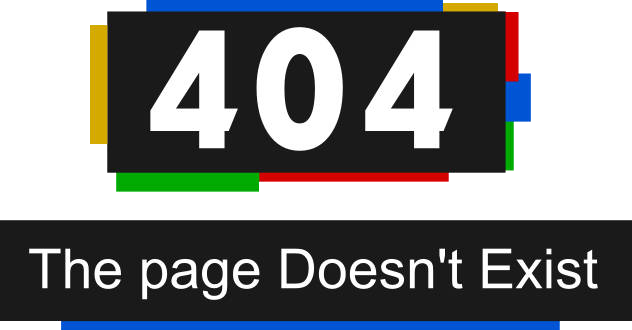
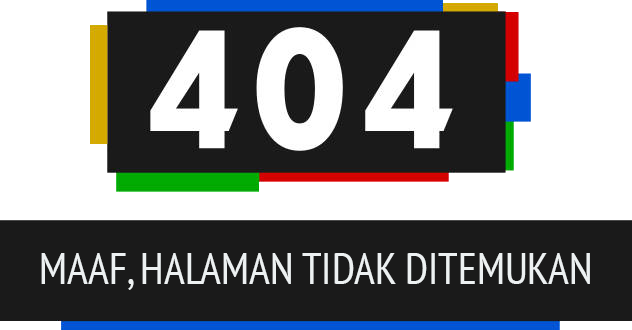
template halaman error

Changed region(s): [[0.0301, 0.7273, 0.962, 0.9091]]

diff --git a/app/views/layouts/login.blade.php b/app/views/layouts/login.blade.php
@@ -1,60 +1,237 @@
 <!DOCTYPE html>
 <html>
-    <head>
-        <meta charset="utf-8">
-        <title>Sign In - Reg Online Penyuluh Nasional</title>
-        <meta name="viewport" content="width=device-width, initial-scale=1.0">
-        <meta name="description" content="Registrasi Online Penyuluh Nasional">
-        <meta name="author" content="Sangkuriang Internasional">
+<head>
+  <meta charset="utf-8">
+  <title>Layanan Biro Hukum dan Organisasi | Berita</title>
+  <meta name="viewport" content="width=device-width, initial-scale=1.0">
+  <meta name="description" content="Registrasi Online Penyuluh Nasional">
+  <meta name="author" content="Sangkuriang Internasional">
 
-        <!-- Stylesheet files import here -->
-        <link rel="stylesheet" type="text/css" href="{{asset('assets/css/dusk.min.css')}}">
-        <link rel="stylesheet" type="text/css" href="{{asset('assets/css/font-embedding-standard.min.css')}}">
-        <link rel="stylesheet" type="text/css" href="{{asset('assets/css/dikbud.css')}}">
-        <link rel="stylesheet" type="text/css" href="{{asset('assets/css/dusk.min.css')}}">
-        <link rel="stylesheet" type="text/css" href="{{asset('assets/css/plugins/validationEngine/validationEngine.jquery.css')}}">
-        <style type="text/css">
-            .container-fluid { padding: 0; }
-        </style>
-        <!-- HTML5 shiv -->
-        <!--[if lt IE 9]>
-        <script src="{{asset('assets/js/html5shiv.js')}}"></script>
-        <![endif]-->
+  <!-- Stylesheet files import here -->
 
-        <!-- Favicons -->
-        <link rel="apple-touch-icon-precomposed" sizes="144x144" href="{{asset('assets/ico/apple-touch-icon-144-precomposed.png')}}">
-        <link rel="apple-touch-icon-precomposed" sizes="114x114" href="{{asset('assets/ico/apple-touch-icon-114-precomposed.png')}}">
-        <link rel="apple-touch-icon-precomposed" sizes="72x72" href="{{asset('assets/ico/apple-touch-icon-72-precomposed.png')}}">
-        <link rel="apple-touch-icon-precomposed" href="{{asset('assets/ico/apple-touch-icon-57-precomposed.png')}}">
-        <link rel="shortcut icon" href="{{asset('assets/ico/favicon.ico')}}">
+  <link rel="stylesheet" type="text/css" href="{{asset('assets/css/style.default.css')}}">
+  <link rel="stylesheet" type="text/css" href="{{asset('assets/css/rulycon.css')}}">
+  <link rel="stylesheet" type="text/css" href="{{asset('assets/css/rulycons.min.css')}}">
+  <link rel="stylesheet" type="text/css" href="{{asset('assets/css/hukor-news.css')}}">
 
-        <script type="text/javascript">
-            var baseUrl = '{{URL::to('/')}}';
-        </script>
+  <style type="text/css">
+    .container-fluid { padding: 0; }
+    .footer {
+      display: block;
+      width: 100%;
+      position: absolute;
+      bottom: 0;
+    }
+    .error-message p {
+      width: 420px;
+      font-size: 14px;
+      margin: 20px auto;
+    }
+  </style>
 
+  <!-- HTML5 shiv -->
+  <!--[if lt IE 9]>
+  <script src="{{asset('assets/js/html5shiv.js')}}"></script>
+  <![endif]-->
 
-    </head>
-    <body id="sign-in">
-        <div class="container-fluid">
-            <div class="row-fluid">
-                @yield('content')
-            </div>
+  <!-- Favicons -->
+  <link rel="apple-touch-icon-precomposed" sizes="144x144"
+        href="{{asset('assets/ico/apple-touch-icon-144-precomposed.png')}}">
+  <link rel="apple-touch-icon-precomposed" sizes="114x114"
+        href="{{asset('assets/ico/apple-touch-icon-114-precomposed.png')}}">
+  <link rel="apple-touch-icon-precomposed" sizes="72x72"
+        href="{{asset('assets/ico/apple-touch-icon-72-precomposed.png')}}">
+  <link rel="apple-touch-icon-precomposed" href="{{asset('assets/ico/apple-touch-icon-57-precomposed.png')}}">
+  <link rel="shortcut icon" href="{{asset('assets/ico/favicon.ico')}}">
+
+  <script type="text/javascript">
+    var baseUrl = '{{URL::to(' / ')}}';
+  </script>
+</head>
+
+<body>
+<div class="mainwrapper">
+<div id="top-bar">
+  <div id="social-links">
+    <div class="container" >
+      <p class="pull-right">
+        <a href="#"><span class="rulycon-twitter"></span></a>
+        <a href="#"><span class="rulycon-feed-3"></span></a>
+        <input type="text" placeholder="search..."/>
+        <button class="btn btn-primary"><span class="rulycon-search"></span></button>
+      </p>
+    </div>
+  </div>
+  <div class="header">
+    <div class="container">
+      <div class="logo">
+        <a href="{{URL::to('/')}}">
+          <img src="{{asset('assets/images/logo-only.png')}}" alt=""/>
+          <h4 style="margin-top: 5px;">
+            <span>Biro Hukum dan Organisasi</span>
+            <span>Kementerian Pendidikan dan Kebudayaan</span>
+            <span>Republik Indonesia</span>
+          </h4>
+        </a>
+      </div>
+      <div class="headerinner">
+        <ul class="headmenu pull-right">
+          <li class="odd">
+          </li>
+          <li>
+            <a class="dropdown-toggle" data-toggle="dropdown" id="aplikasi">
+              <span class="rulycon-drawer-3"></span>
+              <span class="headmenu-label">Aplikasi</span>
+            </a>
+          </li>
+
+          <li>
+            <a class="dropdown-toggle" data-toggle="dropdown" id="informasi">
+              <span class="rulycon-notebook"></span>
+              <span class="headmenu-label">Informasi</span>
+            </a>
+          </li>
+
+          <li>
+            <a href="{{URL::to('produkhukum')}}" id="produk_hukum">
+              <span class="rulycon-books"></span>
+              <span class="headmenu-label">Peraturan</span>
+            </a>
+          </li>
+
+          <li class="odd">
+            <a href="{{URL::to('detailprofile')}}" id="profile">
+              <span class="rulycon-profile"></span>
+              <span class="headmenu-label">Profil</span>
+            </a>
+          </li>
+
+          <li>
+            <a href="#" id="forum_diskusi">
+              <span class="rulycon-bubbles-2"></span>
+              <span class="headmenu-label">Forum</span>
+            </a>
+          </li>
+          <li>
+            <a href="{{URL::to('site')}}">
+              <span class="rulycon-user"></span>
+              <span class="headmenu-label" id="login">Login</span>
+            </a>
+          </li>
+        </ul>
+        <!--headmenu-->
+      </div>
+    </div>
+  </div>
+
+  <div class="sub-header">
+    <div class="container">
+      <ul class="sub-menu" id="sub-informasi" style="display: none">
+        <?php $menu = Menu::all();
+        $s = 1; ?>
+        @foreach($menu as $menus)
+        @if($menus->submenu == null)
+        <span class="rulycon-notebook">&nbsp;</span><a href="#">{{$menus->nama_menu}}</a></li>
+        @else
+        <li class="has-child"><span class="rulycon-notebook">&nbsp;</span>
+          @if($menus->submenu != null && $menus->layanan == null)
+          <a href="#">{{$menus->nama_menu}}</a>
+          @else
+          <a href="{{ URL::to('/layanan/detail?id='. $menus->layanan->id .'') }}">{{$menus->nama_menu}}</a>
+          @endif
+          <ul>
+            @foreach($menus->submenu as $submenus)
+            @if($submenus->layanan->id != null)
+            <li><a href="{{ URL::to('/layanan/detail?id='. $submenus->layanan->id .'') }}">{{ $submenus->nama_submenu
+                }}</a></li>
+            @else
+            <li><a href="#">{{ $submenus->nama_submenu }}</a></li>
+            @endif
+            @endforeach
+          </ul>
+        </li>
+        @endif
+        @endforeach
+
+      </ul>
+
+      <ul class="sub-menu" id="sub-aplikasi" style="display: none">
+        <li class="has-child">
+          <a href="#"><span class="rulycon-drawer-3"> &nbsp; Peraturan Perundang-undangan </span></a>
+          <ul>
+            <li><a href="{{ URL::to('/layanan/detail?id=1') }}">Peraturan Perundang-undangan</a></li>
+            <li><a href="{{URL::route('puu.index')}}">Informasi dan Status Usulan</a></li>
+          </ul>
+        </li>
+        <li class="has-child">
+          <a href="#"><span class="rulycon-drawer-3"> &nbsp; Pelembagaan</span></a>
+          <ul>
+            <li><a href="{{ URL::to('/layanan/detail?id=2') }}">Pelembagaan</a></li>
+            <li><a href="{{ URL::route('pelembagaan.index') }}">Informasi dan Status Usulan</a></li>
+          </ul>
+        </li>
+
+        <li class="has-child">
+          <a href="#"><span class="rulycon-drawer-3"> &nbsp; Bantuan Hukum</span></a>
+          <ul>
+            <li><a href="{{ URL::to('/layanan/detail?id=3') }}">Bantuan Hukum</a></li>
+            <li><a href="{{ URL::route('bantuan_hukum.index') }}">Informasi dan Status Usulan</a></li>
+          </ul>
+        </li>
+
+        <li class="has-child">
+          <a href="#"><span class="rulycon-drawer-3"> &nbsp; Ketatalaksanaan</span></a>
+          <ul>
+            <li><a href="{{ URL::to('/layanan/detail?id=4') }}">Sistem dan Prosedur</a></li>
+            <li><a href="{{URL::route('sp.index')}}">Informasi dan Status Usulan Sistem dan Prosedur</a></li>
+
+            <li><a href="{{ URL::to('/layanan/detail?id=5') }}">Analisis jabatan</a></li>
+            <li><a href="{{URL::route('aj.index')}}">Informasi dan Status Usulan</a></li>
+          </ul>
+        </li>
+
+      </ul>
+    </div>
+  </div>
+</div>
+
+<div class="content-wrapper">
+  <div class="maincontent">
+    <div class="container">
+      <div class="row-fluid">
+        <div class="container error-message" style="width: 960px; text-align: center; margin-top: 40px;">
+          <img src="{{asset('assets/img/error-404.png')}}" alt="" width="320"/>
+          <p>Anda dapat mengakses halaman lain melalui menu di atas atau klik <a href="#">tautan ini</a> untuk kembali ke halaman utama.</p>
         </div>
-        <footer>
-            <div class="stripe-accent"></div>
-            <h6>© 2013 Biro Hukum dan Organisasi</h6>
-            <h6 id="site-links">
-                <a href="http://www.kemdiknas.go.id/kemdikbud/" target="_blank" >Kemdikbud</a> |
-                <a href="http://en.unesco.org/" target="_blank">UNESCO</a> |
-                <a href="http://indonesia.go.id/" target="_blank">Indonesia Goverment Website</a> |
-                <a href="http://indonesia.travel/" target="_blank">Indonesia Travel</a></h6>
-        </footer>
+      </div>
+    </div>
+  </div>
+</div>
+<!--content-wrapper-->
 
-        @section('scripts')
-        <script src="{{asset('assets/js/jquery-1.10.1.min.js')}}"></script>
-        <script src="{{asset('assets/js/plugins/validateEngine/jquery.validationEngine.js')}}"></script>
-        <script src="{{asset('assets/js/plugins/validateEngine/jquery.validationEngine-id.js')}}"></script>
-        <script src="{{asset('assets/js/dusk.min.js')}}"></script>
-        @show
-    </body>
+<div class="footer">
+  <div class="container" style="width: 960px;">
+    <div class="row-fluid">
+      <div class="span12">
+        <p class="text-center"><span>&copy; 2014 Kementerian Pendidikan Dan Kebudayaan Republik Indonesia.</span></p>
+      </div>
+    </div>
+  </div>
+</div>
+<!--footer-->
+</div>
+<!--mainwrapper-->
+
+<!-- dialog box -->
+<div id="dialog" title="Forum" style="display: none">
+  <p>Silakan klik LOGIN terlebih dahulu untuk masuk ke dalam Forum. Jika belum mempunyai akun, silakan klik DAFTAR.</p>
+</div>
+
+@section('scripts')
+<script src="{{asset('assets/js/jquery-1.10.1.min.js')}}"></script>
+<script src="{{asset('assets/js/jquery-migrate-1.1.1.min.js')}}"></script>
+<script src="{{asset('assets/js/modernizr.min.js')}}"></script>
+<script src="{{asset('assets/js/bootstrap.min.js')}}"></script>
+@show
+</body>
 </html>

diff --git a/app/views/errors/404.blade.php b/app/views/errors/404.blade.php
@@ -1,4 +1,4 @@
 @extends('layouts.login')
 @section('content')
-	<a href="/"><img src="{{ asset('assets/img/error-404.png') }}" alt="" id="img_error_404"></a>
+	<!--<a href="/"><img src="{{ asset('assets/img/error-404.png') }}" alt="" id="img_error_404"></a>-->
 @stop
